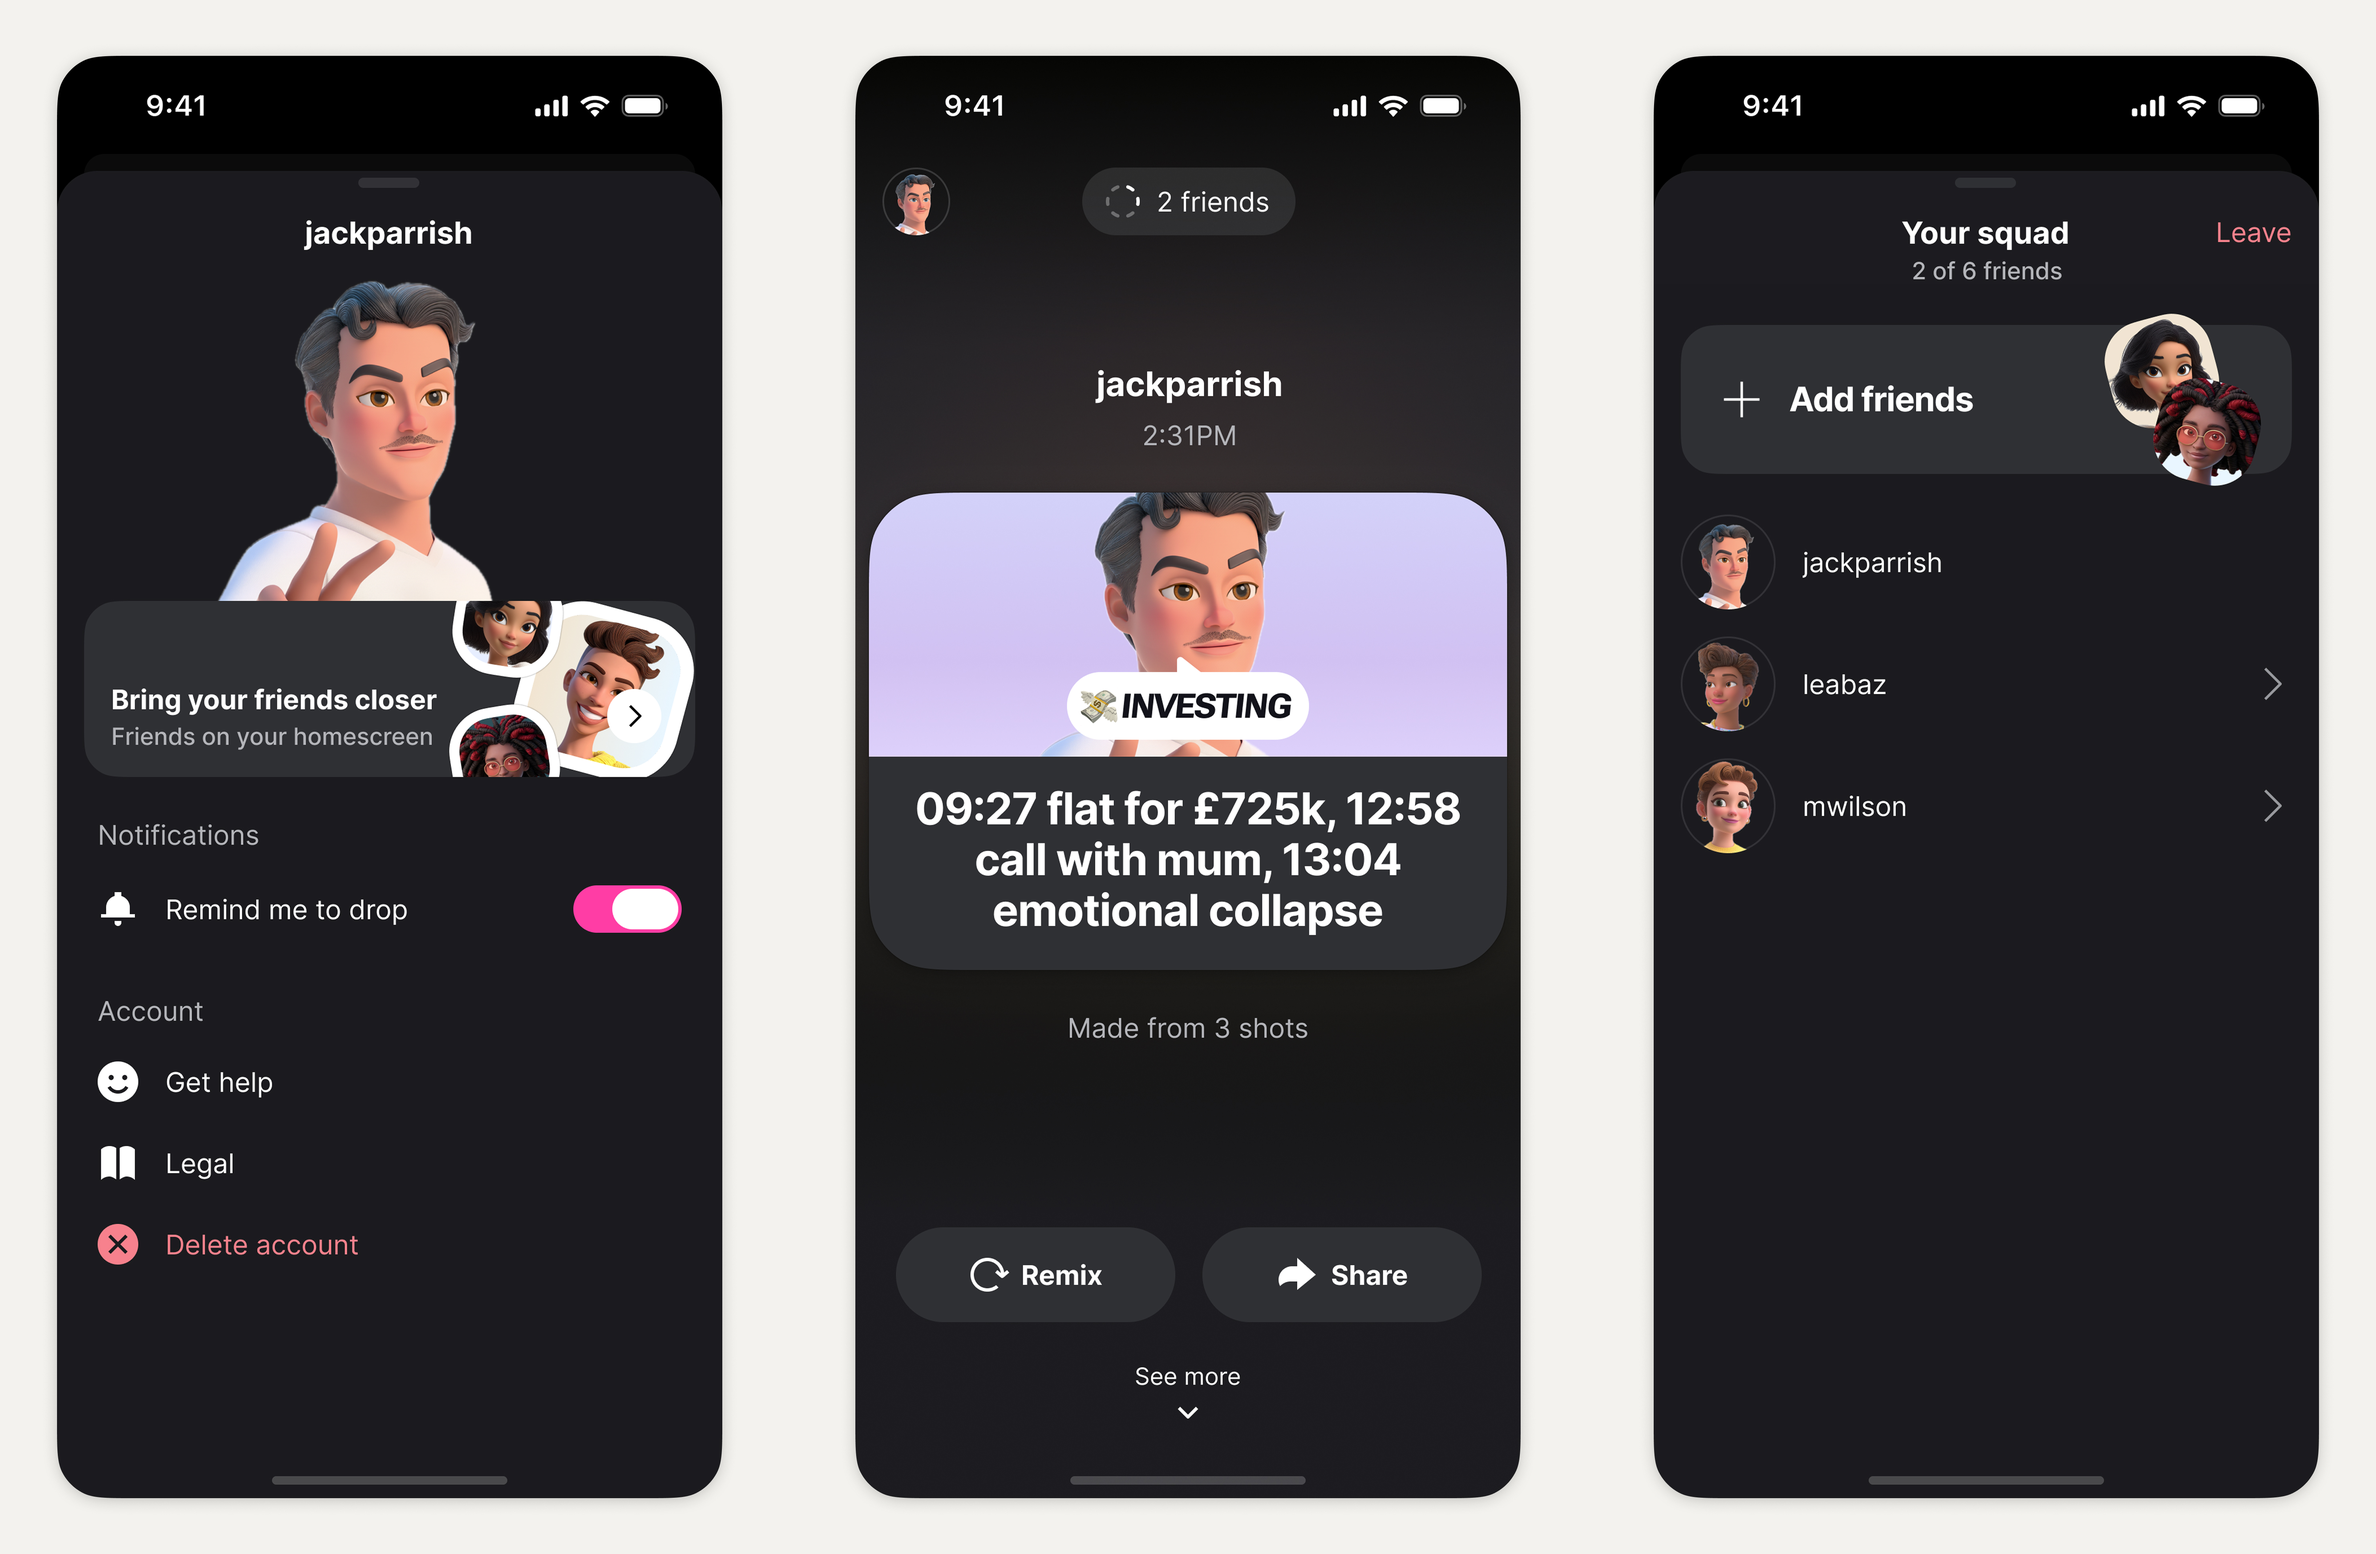
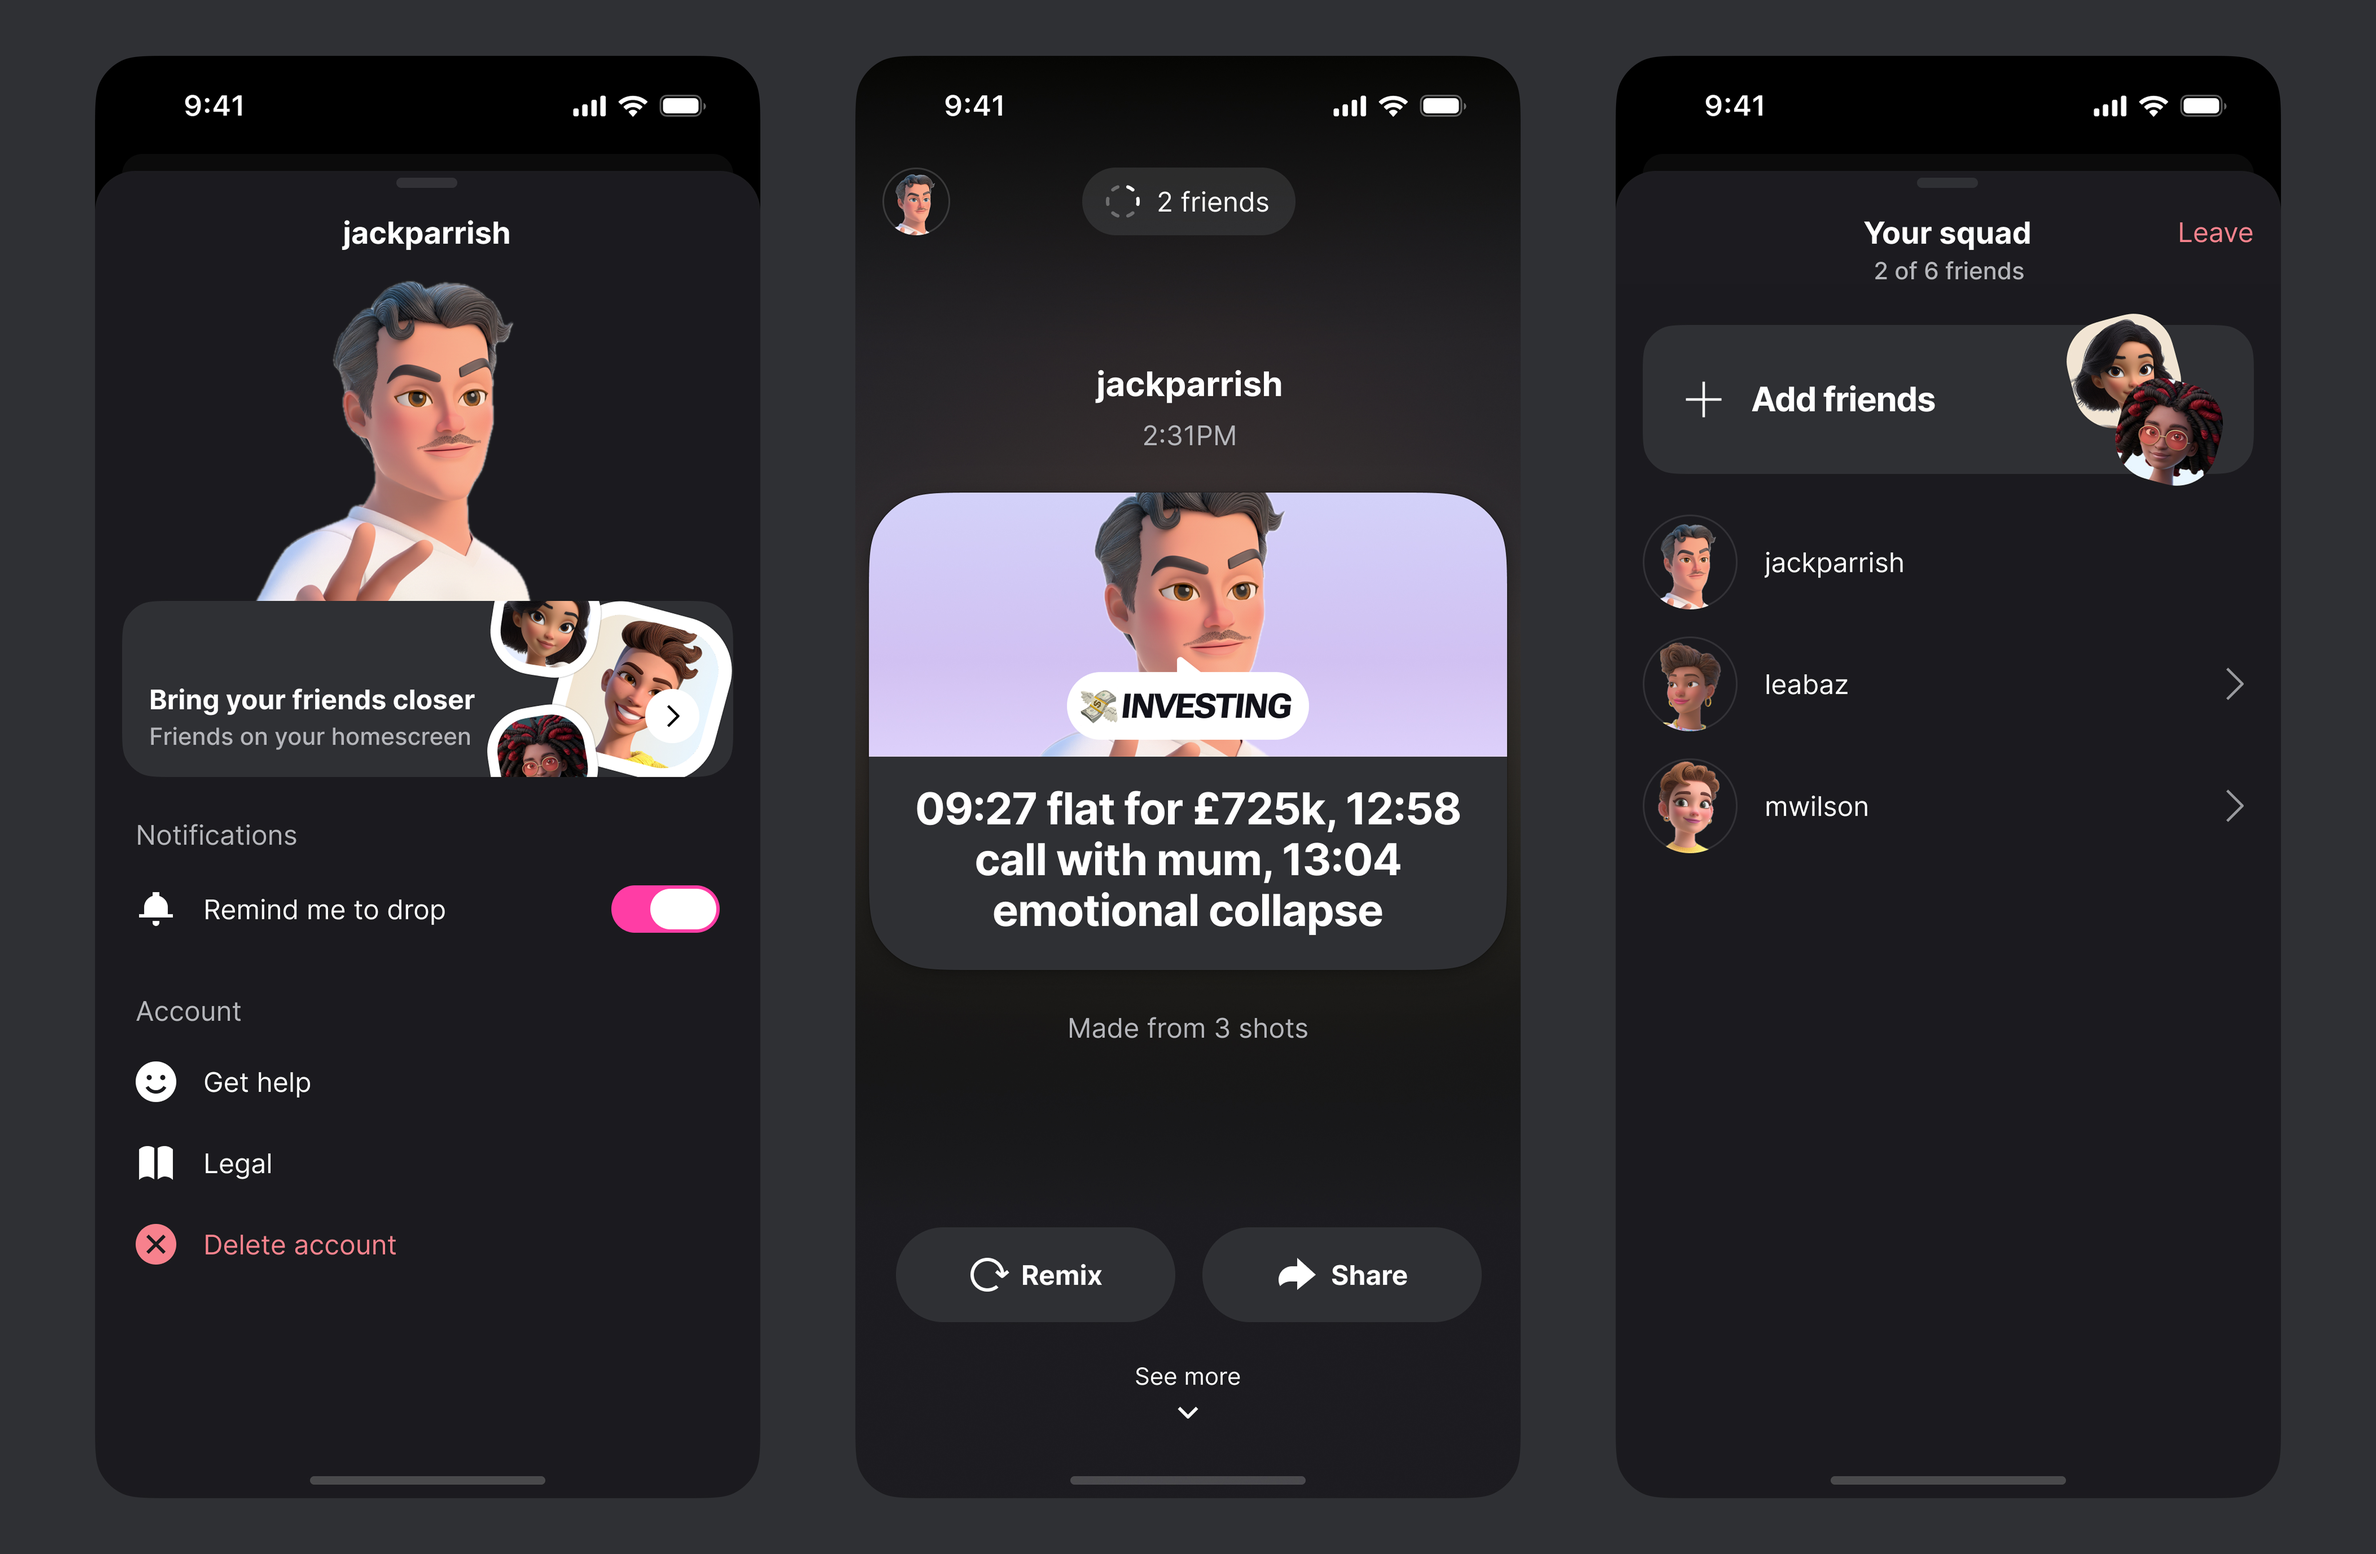
Refine Seenit case study content, layout, and spacing

Changed region(s): [[0.0, 0.0, 1.0, 1.0], [0.7792, 0.1244, 0.8727, 0.1865]]

diff --git a/src/app/globals.css b/src/app/globals.css
@@ -2068,6 +2068,39 @@ body:has(.case-study-v3-container) {
   text-align: center;
 }
 
+/* Inline image constrained to content column with custom spacing:
+   - 20px from paragraph above
+   - 60px (desktop) / 40px (mobile) before next block */
+.cs-inline-image-block {
+  margin-top: 20px;
+  margin-bottom: 60px;
+}
+
+@media (max-width: 820px) {
+  .cs-inline-image-block {
+    margin-top: 20px;
+    margin-bottom: 40px;
+  }
+}
+
+/* When a SectionWithMedia is immediately followed by an inline image,
+   remove the section's own bottom margin so only the inline block's
+   margins control the vertical spacing */
+.case-study-v3-section-with-media:has(+ .cs-inline-image-block) {
+  margin-bottom: 0;
+}
+
+/* Seenit-specific spacing for onboarding paragraph above permission image */
+.cs-onboarding-text {
+  margin-bottom: 60px;
+}
+
+@media (max-width: 820px) {
+  .cs-onboarding-text {
+    margin-bottom: 40px;
+  }
+}
+
 /* V3 Section - content section at 600px */
 .case-study-v3-section {
   max-width: var(--v3-content-max-width);
@@ -2356,5 +2389,6 @@ body:has(.case-study-v3-container) {
     line-height: 22px;
   }
 }
+
 
 
